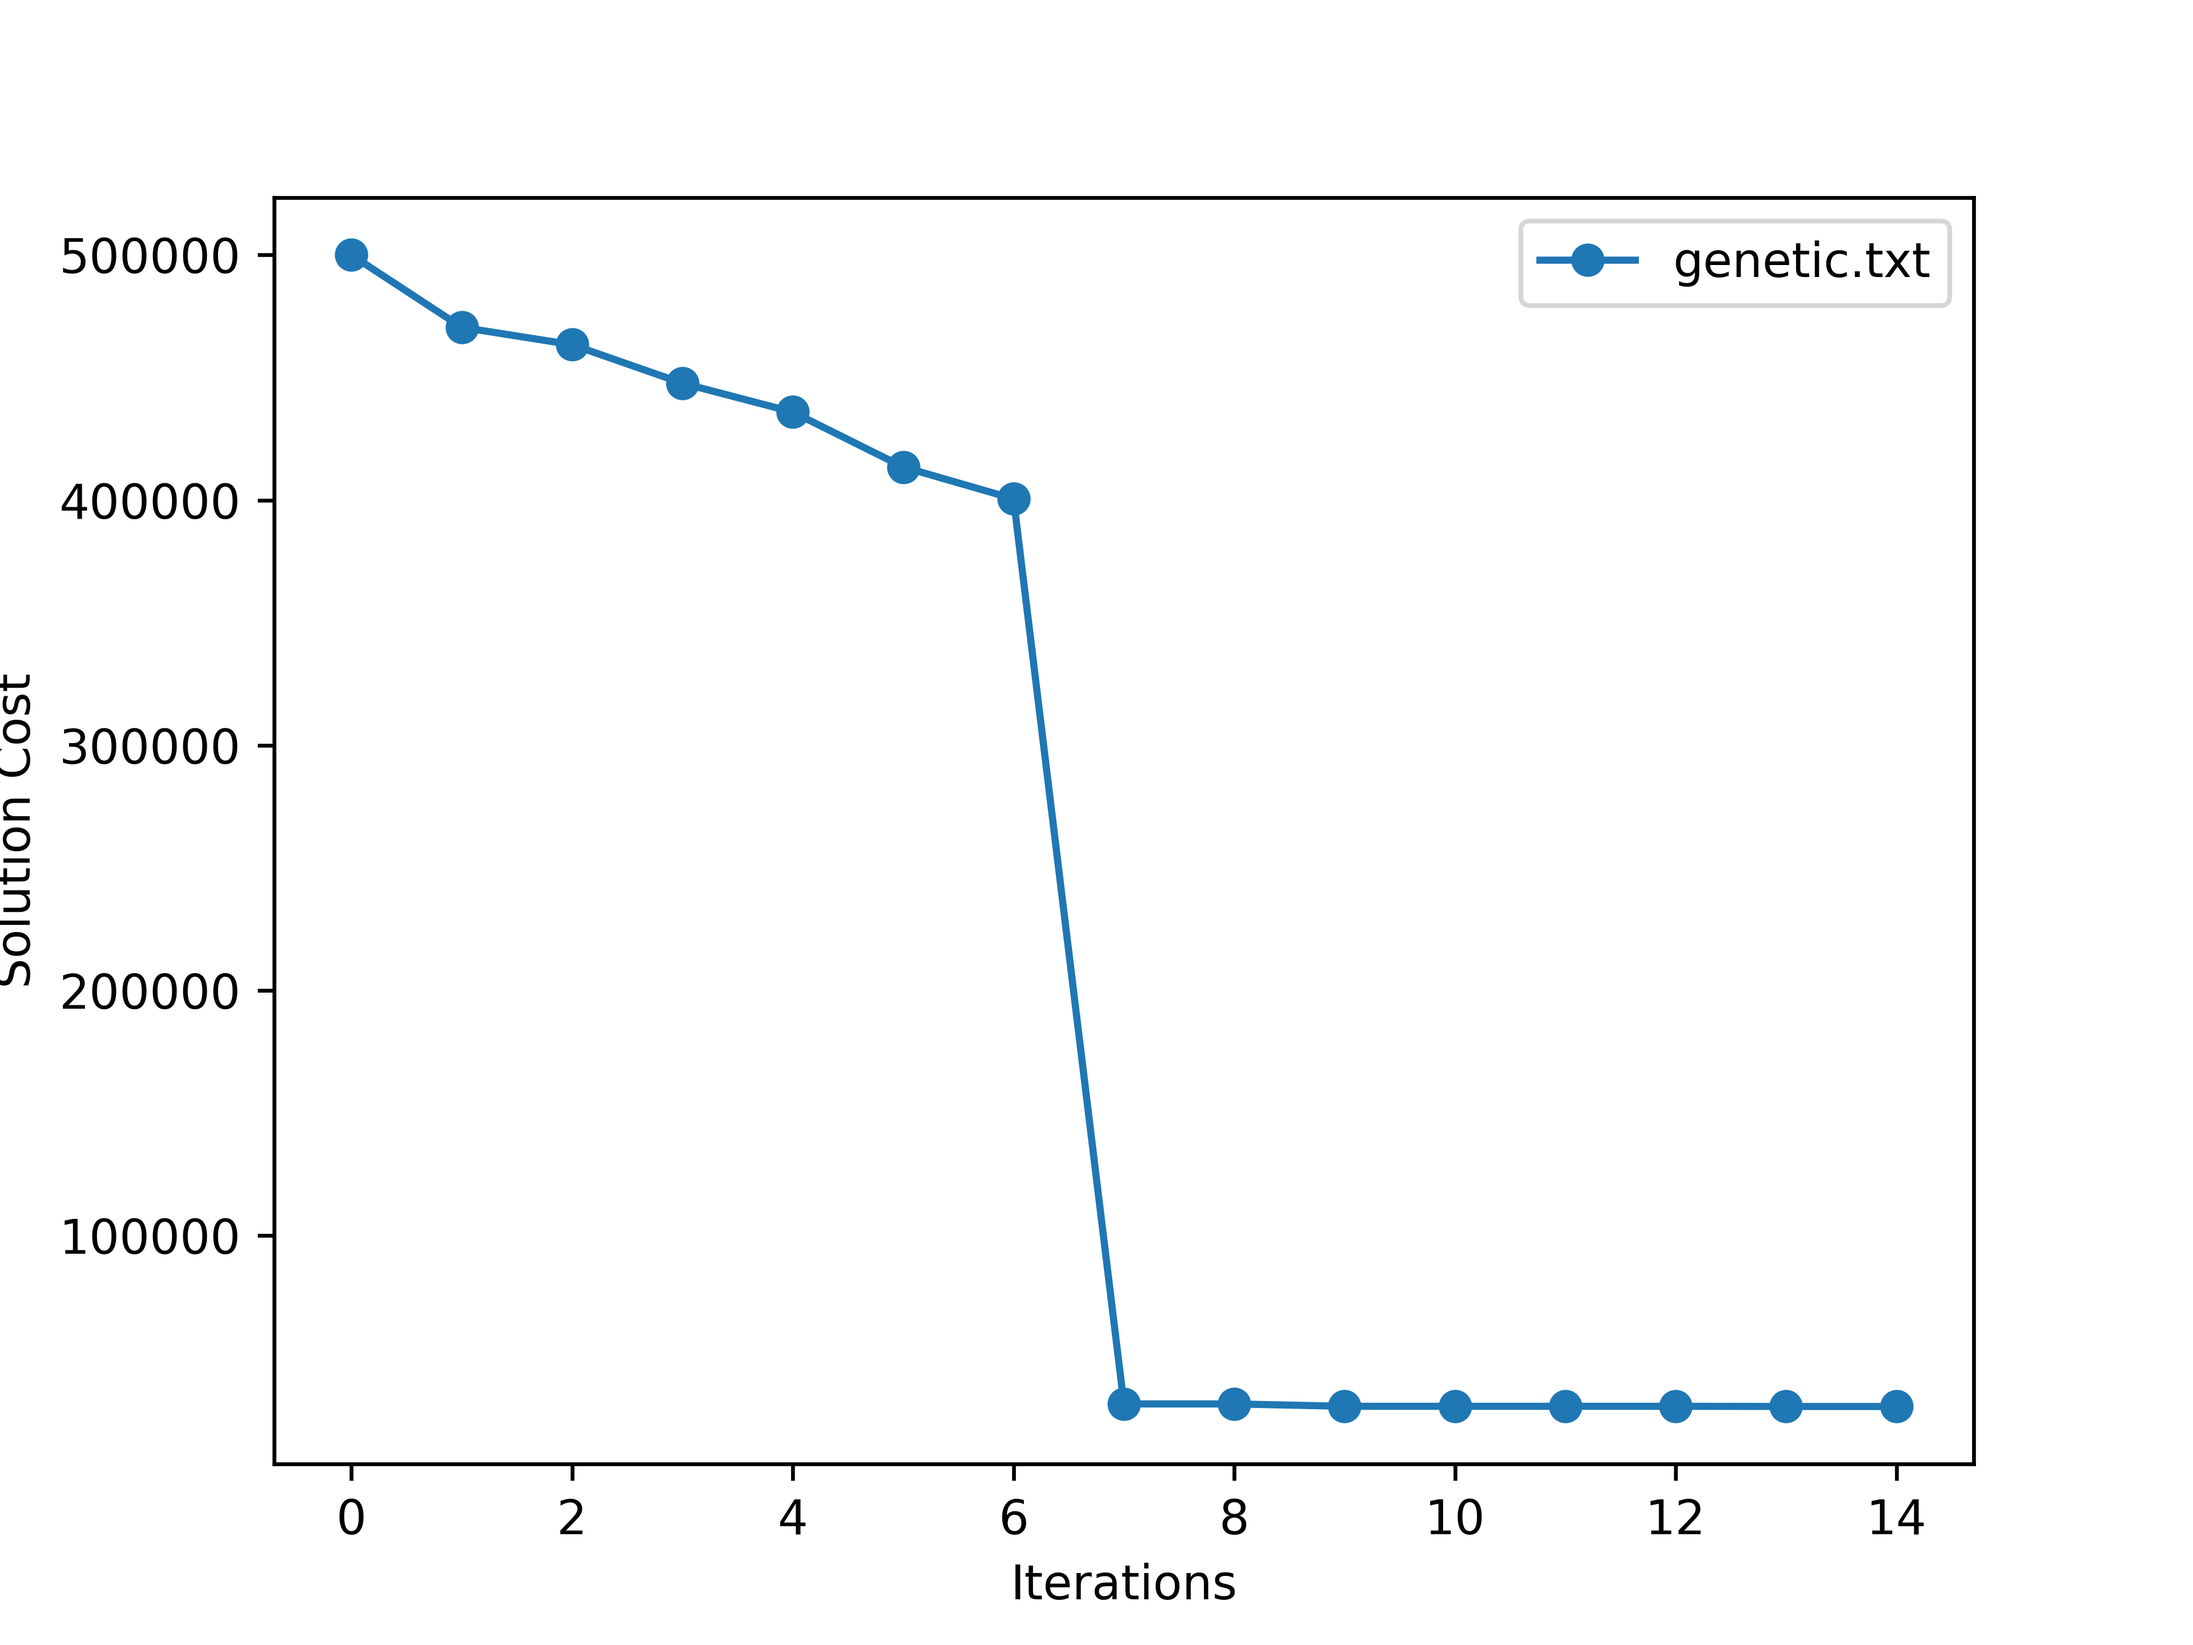
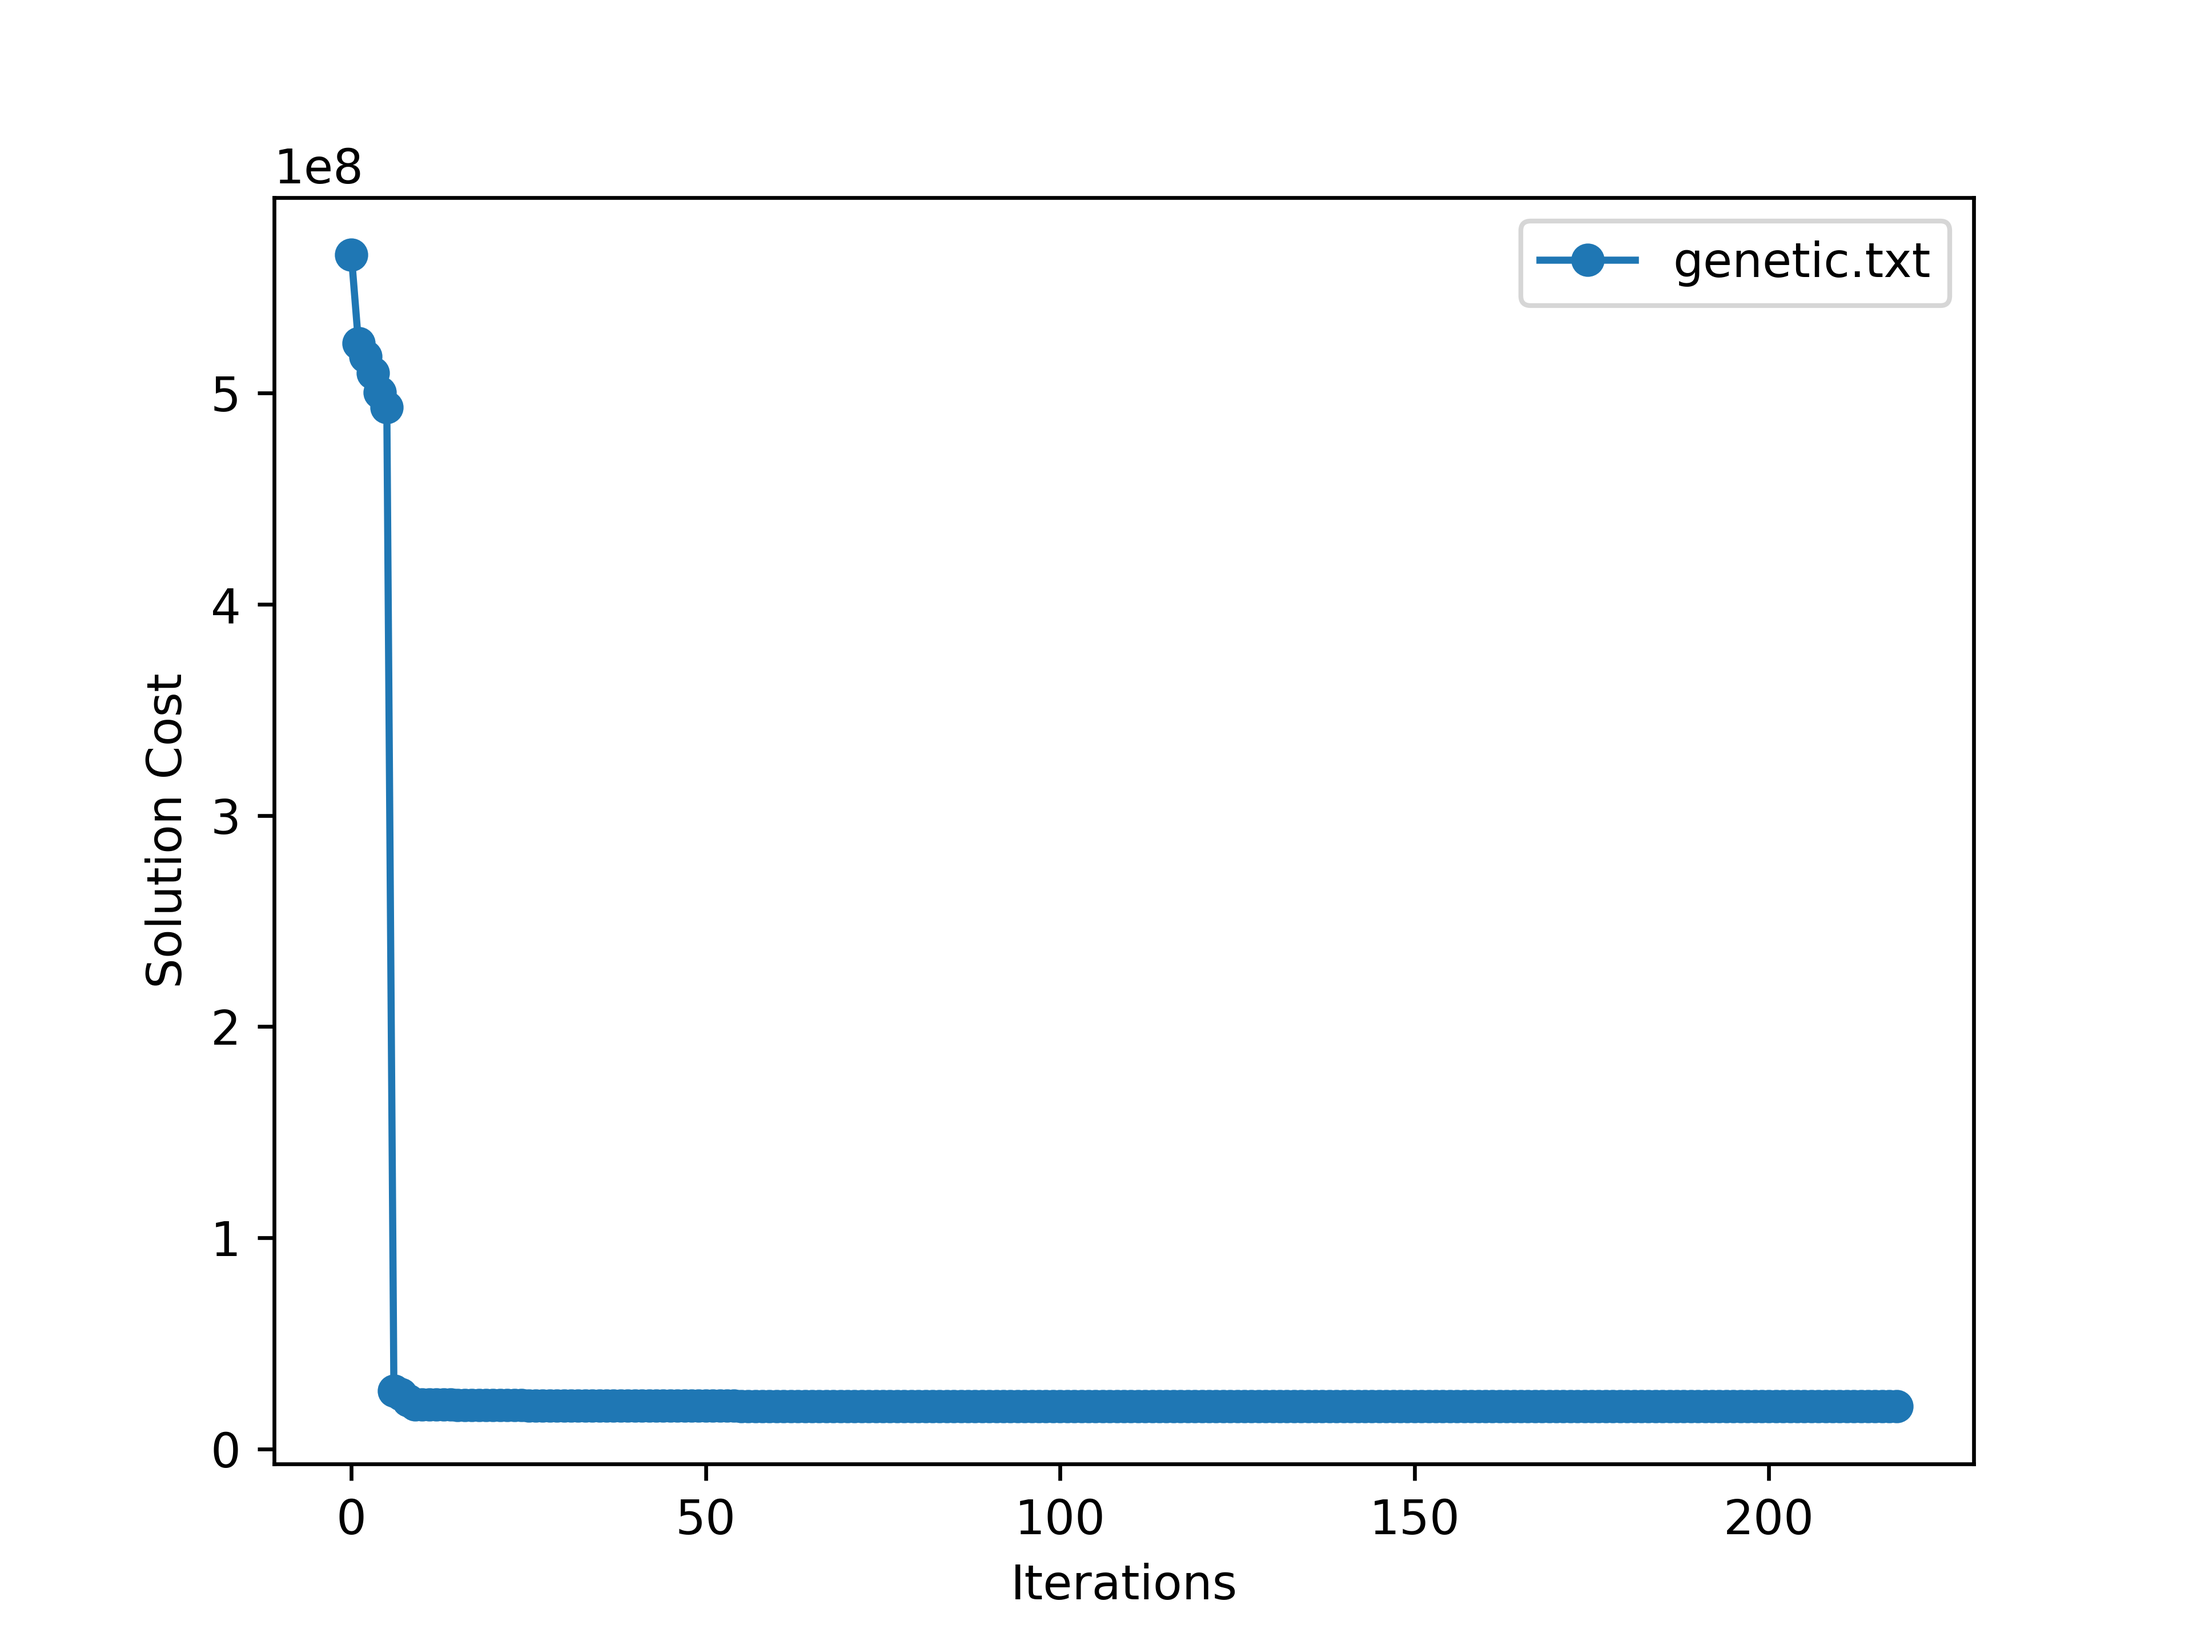
robe PYTHON

diff --git a/other_codes/read_tsp.py b/other_codes/read_tsp.py
@@ -1,7 +1,9 @@
-import argparse   # reading command line
+import argparse
 import matplotlib.pyplot as plt
 import math
 import time
+import random
+from heapq import *
 
 #TSP instance
 class instance:
@@ -66,10 +68,19 @@ def plot_tsp(inst:instance=None,save=False):
   plt.show()
 
 
+
+#################################################
+#############      UTILS        #################
+#################################################
+
 def parse_cmd_line():
   parser = argparse.ArgumentParser(description='Parse TSP')
   parser.add_argument('-f',action='store', type=str, dest="file_name", required=True,
                   help='file name')
+  parser.add_argument('-m',action='store',type=str, dest="method",required=True,
+                  help="GREEDY, GREEDY_2OPT, GENETIC")
+  parser.add_argument('-t',action='store',type=str, dest="time_limit",required=False,
+                  help="time limit in seconds")
   args = parser.parse_args()
   return args
 
@@ -109,7 +120,19 @@ def calc_dist(a:int,b:int,inst:instance):
     q3 = math.cos( lat1 + lat2 )
     dist = EARTH_RAD * math.acos( 0.5 * ((1.0+q1)*q2 - (1.0-q1)*q3) ) + 1.0
     return dist
+  if inst.edge_type=="CEIL_2D":
+    x=a[0]-b[0]
+    y=a[1]-b[1]
+    dist=(x**2+y**2)**0.5
+    return math.ceil(dist)
   return 0
+
+
+
+
+#############################################################
+###################    HEURISTICS     #######################
+#############################################################
 
 #Nearest neighbour
 def greedy(inst: instance,start_node=0):
@@ -171,7 +194,10 @@ def swap(a,b,c,d,inst,prev):
     prev[inst.edges[k][1]]=k
 
 #2 optimization
-def alg_2opt(inst:instance):
+def alg_2opt(inst:instance, time_limit=300):
+  #start counting time from now
+  start=time.time()
+
   if not inst or not inst.nodes or not inst.edges: return False
   N=len(inst.nodes)
   
@@ -182,7 +208,7 @@ def alg_2opt(inst:instance):
   mina=0
   minc=0
 
-  while True:
+  while time.time()-start<time_limit:
     minchange = 0
     #for each pair of subsequent nodes
     for a in range(N-1):
@@ -211,24 +237,198 @@ def alg_2opt(inst:instance):
     
   return inst
 
+
+
+######################################################################
+################     GENETIC     ################################
+######################################################################
+class individual():
+  def __init__(self,inst:instance):
+    self.tour=[]
+    self.cost=0
+    self.inst=inst  #used to read the nodes
+
+  def toInstance(self):
+    self.inst.cost=self.cost
+    self.inst.edges=[[0,0] for _ in range(len(self.tour))]
+    for i in range(len(self.tour)-1):
+      index=self.tour[i]
+      self.inst.edges[index][0]=self.tour[i]
+      self.inst.edges[index][1]=self.tour[i+1]
+    index=self.tour[-1]
+    self.inst.edges[index][0]=self.tour[-1]
+    self.inst.edges[index][1]=self.tour[0]
+    return self.inst
+
+  def toTour(self,inst:instance=None):
+    if inst:self.inst=inst
+    self.tour=[]
+    self.cost=0 
+
+    curr=0
+    visited=[False]*len(self.inst.nodes)
+    while not visited[curr]:
+      p,n=inst.edges[curr]
+      visited[curr]=True
+      self.tour.append(curr)
+      curr=n
+    self.compute_tour_cost()
+    return self.tour
+  
+  def __lt__(self, other):
+    return self.cost<other.cost
+
+  def compute_tour_cost(self):
+    self.cost=0
+    for i in range(1,len(self.tour)):
+      self.cost+=calc_dist(self.tour[i-1],self.tour[i],self.inst)
+    self.cost+=calc_dist(self.tour[0],self.tour[-1],self.inst)
+    return self.cost
+
+#Generate a random tour for the given instance
+def random_tour(inst:instance):
+  num_nodes=len(inst.nodes)
+  tour=[i for i in range(num_nodes)]
+  #Choose randomly 2 nodes in the tour and swap them
+  for _ in range(num_nodes):
+    idx1=random.randint(0,num_nodes-1)
+    idx2=random.randint(0,num_nodes-1)
+    tour[idx1],tour[idx2]=tour[idx2],tour[idx1]
+  ind=individual(inst)
+  ind.tour=tour
+  ind.compute_tour_cost()
+  return ind
+
+#SELECTION PHASE: select 2 parents randomly
+def selection(population):
+  idx_par1=idx_par2=random.randint(0,len(population)-1)
+  while idx_par2==idx_par1:idx_par2=random.randint(0,len(population)-1)
+  par1=population[idx_par1]
+  par2=population[idx_par2]
+  return par1,par2
+
+def crossover(par1:instance,par2:instance):
+  tour=[-1]*len(par1.tour)
+  #pick random subtour from the first parent
+  idx1,idx2=random.randint(0,len(par1.tour)-1),random.randint(0,len(par1.tour)-1)
+  idx1,idx2=min(idx1,idx2),max(idx1,idx2)
+  visited=set()
+  for i in range(idx1,idx2+1):
+    tour[i]=par1.tour[i]
+    visited.add(par1.tour[i])
+  
+  #fill the remaining with the second parent
+  i=0
+  for e in par2.tour:
+    if e in visited:continue
+    while tour[i]!=-1:i+=1
+    tour[i]=e
+  child=individual(par1.inst)
+  child.tour=tour
+  child.cost=child.compute_tour_cost()
+  return child
+
+def mutation(ind:individual):
+  apply_mutation=random.random()
+  if apply_mutation>0.05:return ind
+  apply_2opt=random.random()
+  if apply_2opt<0.02:
+    #print("Mutation: 2-opt")
+    inst=ind.toInstance()
+    inst=alg_2opt(inst,10)#time limit 5 sec
+    ind.toTour(inst)
+    ind.compute_tour_cost()
+  else:#reverse a portion of tour
+    #print("Mutation: reversing")
+    idx1,idx2=random.randint(0,len(ind.tour)-1),random.randint(0,len(ind.tour)-1)
+    idx1,idx2=min(idx1,idx2),max(idx1,idx2)
+    ind.tour[idx1:idx2+1]=ind.tour[idx1:idx2+1][::-1]
+  return ind
+
+def genetic(inst:instance,pop_size=1000,off_size=400,num_generations=20):
+
+  population=[random_tour(inst) for _ in range(pop_size)]
+  best_solution=population[0]
+
+  costs=[]  # remember the best costs for each generation
+  means=[]  # remember the mean of population costs for each generation
+
+  #For each generation
+  for g in range(num_generations):
+    offspring=[]
+    #Generate off_size children
+    for k in range(off_size):
+      par1,par2=selection(population) #selection
+      child=crossover(par1,par2)      #crossover
+      mutation(child)                 #mutation
+      offspring.append((-child.cost,child))
+    
+    #Keep pop_size best tours
+    for e in population:
+      heappush(offspring,(-e.cost,e))
+      if len(offspring)>pop_size: heappop(offspring)
+    population=[e for cost,e in offspring]
+
+    #Update best solution and compute population mean
+    best_solution=population[0]
+    mean=0
+    for e in population:
+      mean+=e.cost
+      if e.cost<best_solution.cost:
+        best_solution=e
+    mean/=pop_size
+    print(best_solution.cost,mean)
+    costs.append(best_solution.cost)
+    means.append(mean)
+  
+  timestamps=[i for i in range(len(costs))]
+  plt.plot(timestamps, costs, marker = 'o')
+  plt.plot(timestamps, means, marker = 'o')
+  plt.show()
+
+
+  #Return best solution
+  return best_solution.toInstance()
+
+
+
 def main():
   start=time.time()
 
-  file_name=parse_cmd_line().file_name
+  command_line=parse_cmd_line()
+  file_name=command_line.file_name
+  method=command_line.method
+
   inst=read_tsp(file_name)
   elapsed=time.time()-start
   print("Time to read input (s):",elapsed)
 
-  greedy(inst)
-  elapsed=time.time()-start
-  print("Time to greedy (s):",elapsed)
-  print("Cost after greedy:",inst.cost)
+  if method=="GREEDY":
+    greedy(inst)
+    elapsed=time.time()-start
+    print("Time to greedy (s):",elapsed)
+    print("Cost after greedy:",inst.cost)
+  elif method=="GREEDY_2OPT":
+    greedy(inst)
+    elapsed=time.time()-start
+    print("Time to greedy (s):",elapsed)
+    print("Cost after greedy:",inst.cost)
 
-  alg_2opt(inst)
-  elapsed=time.time()-start
-  print("Time to opt (s):",elapsed)
-  print("Cost after 2opt:",inst.cost)
+    alg_2opt(inst)
+    elapsed=time.time()-start
+    print("Time to 2opt (s):",elapsed)
+    print("Cost after 2opt:",inst.cost)
+  elif method=="GENETIC":
+    genetic(inst,100)
+    elapsed=time.time()-start
+    print("Time to genetic (s):",elapsed)
+    print("Cost after genetic:",inst.cost)
+
+    
 
   plot_tsp(inst)
 
+
+
+random.seed(123)
 main()

diff --git a/other_codes/metaHeuristics/plot_cost_time.py b/other_codes/metaHeuristics/plot_cost_time.py
@@ -15,7 +15,7 @@ for file_path in files:
         if line.startswith("[INFO]  incubement: "):
             line=line.split()
             cost=float(line[-1])
-            if cost >500000: cost=500000    #565468780 for dsj1000
+            if cost >565468780: cost=565468780    #565468780 for dsj1000
             costs.append(cost)
         """elif line.startswith("[INFO]  Time remaining: "):
             line=line.split()
